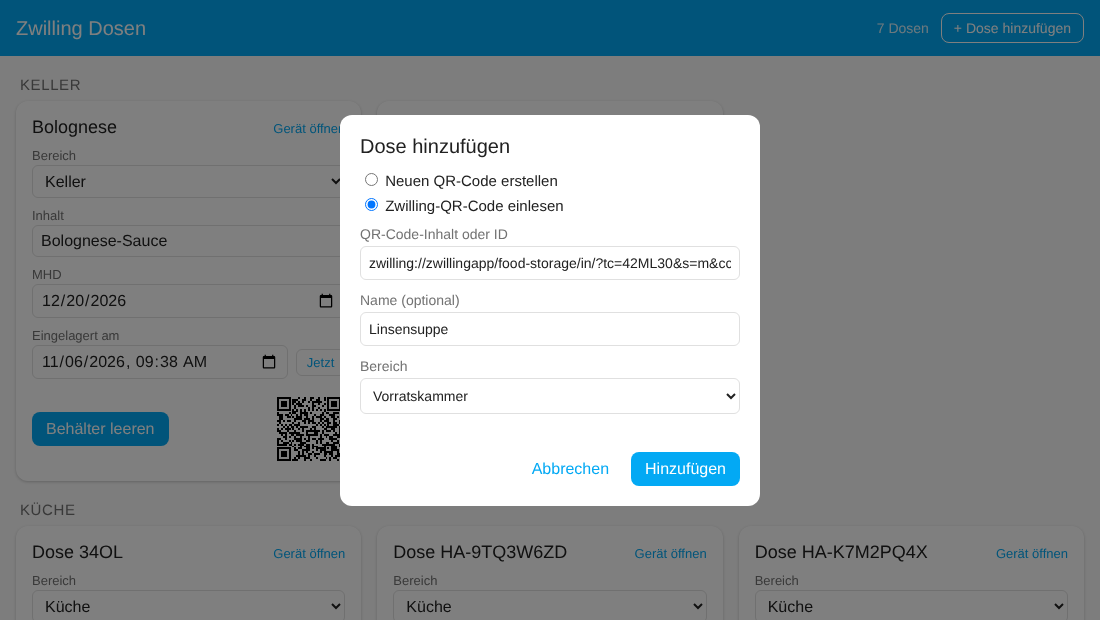
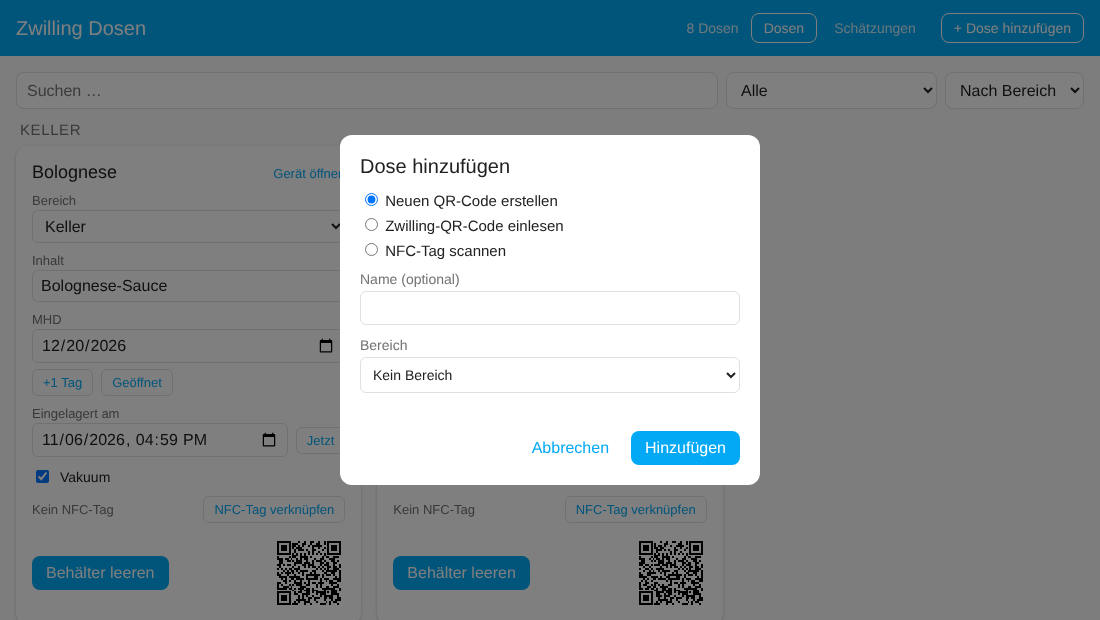
README: neue Screenshots (Filter, Befüllen, Schätzungen, NFC), Demo-Seite erweitert
Claude-Session: https://claude.ai/code/session_01Q3qkotbUKKo9rH8nVuWDPZ

diff --git a/docs/demo/index.html b/docs/demo/index.html
@@ -2,7 +2,8 @@
 <!--
   Demo-Seite für die README-Screenshots: lädt das echte Panel mit erfundenen Daten.
   Aufruf: python -m http.server im Repo-Hauptverzeichnis, dann
-  /docs/demo/index.html?lang=en|de&dialog=0|1&width=...
+  /docs/demo/index.html?lang=en|de&width=...
+  &dialog=1|scan|nfc|fill  &view=estimates  &filter=soon  &tip=1
 -->
 <html>
 <head>
@@ -40,6 +41,7 @@ const doses = de ? [
   ["Reis", "pantry", "Basmati", 300, 700],
   ["Gemüsebrühe", "cellar", "Gemüsebrühe selbst gekocht", -2, 30],
   ["Bolognese", "cellar", "Bolognese-Sauce", 40, 96],
+  ["Dose HA-5ZC8N1RB", "kitchen", "", null, null],
 ] : [
   ["Dose HA-K7M2PQ4X", "kitchen", "Tomato soup", 2, 20],
   ["Dose 34OL", "kitchen", "Chicken curry", 1, 52],
@@ -48,6 +50,7 @@ const doses = de ? [
   ["Rice", "pantry", "Basmati", 300, 700],
   ["Vegetable stock", "cellar", "Homemade vegetable stock", -2, 30],
   ["Bolognese", "cellar", "Bolognese sauce", 40, 96],
+  ["Dose HA-5ZC8N1RB", "kitchen", "", null, null],
 ];
 const entities = {}, devices = {}, states = {};
 doses.forEach((d, i) => {
@@ -67,8 +70,29 @@ doses.forEach((d, i) => {
 const hass = {
   entities, devices, states, language: lang, user: { is_admin: true },
   areas: Object.fromEntries(Object.entries(areas).map(([k, v]) => [k, { area_id: k, name: v }])),
-  hassUrl: (p) => p, callService() {}, callApi: async () => ({}), callWS: async () => ({}),
+  hassUrl: (p) => p, callService() {}, callApi: async () => ({}),
+  callWS: async (msg) => {
+    if (msg.type === "zwilling_storage/nfc_tags") return { links: {}, by_device: { demo00: "tag-a", demo01: "tag-b", demo03: "tag-c" } };
+    if (msg.type === "zwilling_storage/contents") return { contents: de
+      ? ["Pizza", "Pizzateig", "Gulasch", "Linsensuppe", "Tomatensuppe", "Hähnchen-Curry"]
+      : ["Pizza", "Pizza dough", "Goulash", "Lentil soup", "Tomato soup", "Chicken curry"] };
+    if (msg.type === "zwilling_storage/estimates") return { mode: "table_ai", entries: ENTRIES };
+    return {};
+  },
 };
+const ENTRIES = de ? [
+  { key: "a", content: "Tomatensuppe", area: "Kühlschrank", vacuum: true, days: 3, tip: "Gut durcherhitzen", source: "table", origin: null },
+  { key: "b", content: "Hähnchen-Curry", area: "Kühlschrank", vacuum: true, days: 4, tip: "Innerhalb von 2 Stunden abkühlen", source: "table", origin: "table" },
+  { key: "c", content: "Gulasch", area: "Gefrierschrank", vacuum: true, days: 180, tip: "Portionsweise einfrieren", source: "learned", origin: "ai" },
+  { key: "d", content: "Selbstgebackenes Brot", area: "Vorratskammer", vacuum: false, days: 4, tip: "In Leinen aufbewahren", source: "ai", origin: null },
+  { key: "e", content: "Basmati", area: "Vorratskammer", vacuum: true, days: 730, tip: "", source: "table", origin: null },
+] : [
+  { key: "a", content: "Tomato soup", area: "Fridge", vacuum: true, days: 3, tip: "Heat through thoroughly", source: "table", origin: null },
+  { key: "b", content: "Chicken curry", area: "Fridge", vacuum: true, days: 4, tip: "Cool within 2 hours", source: "table", origin: "table" },
+  { key: "c", content: "Goulash", area: "Freezer", vacuum: true, days: 180, tip: "Freeze in portions", source: "learned", origin: "ai" },
+  { key: "d", content: "Homemade bread", area: "Pantry", vacuum: false, days: 4, tip: "Store in linen", source: "ai", origin: null },
+  { key: "e", content: "Basmati", area: "Pantry", vacuum: true, days: 730, tip: "", source: "table", origin: null },
+];
 
 const width = Number(q.get("width") || 1100);
 document.body.style.width = width + "px";
@@ -76,6 +100,24 @@ const el = document.createElement("zwilling-storage-panel");
 document.body.appendChild(el);
 el.hass = hass;
 if (q.get("dialog") === "1") el.openAddDialog();
+if (q.get("dialog") === "nfc") {
+  el.openAddDialog();
+  const r = el.shadowRoot.querySelector('input[name="mode"][value="nfc"]');
+  r.checked = true;
+  r.dispatchEvent(new Event("change"));
+  el.shadowRoot.querySelector('[data-f="name"]').value = de ? "Gulasch" : "Goulash";
+}
+if (q.get("dialog") === "fill") {
+  el.openFillDialog("demo07");
+  const f = (n) => el.shadowRoot.querySelector(`form.fillform [data-f="${n}"]`);
+  f("content").value = de ? "Pizza" : "Pizza";
+}
+if (q.get("view") === "estimates") el.setView("estimates");
+if (q.get("filter")) { el._opts.filter = q.get("filter"); el._update(); }
+if (q.get("tip") === "1") {
+  const card = el._cards.get("demo02");
+  card._setTip(de ? "Geschätzt: ca. 3 Tage haltbar (Tabelle). Gut durcherhitzen" : "Estimated: about 3 days shelf life (table). Heat through thoroughly");
+}
 if (q.get("dialog") === "scan") {
   // Wie nach einem Scan über den Kurzbefehl: Dialog mit vorbelegtem Zwilling-Code
   el.openAddDialog("zwilling://zwillingapp/food-storage/in/?tc=42ML30&s=m&cc=6KP2");

diff --git a/custom_components/zwilling_storage/frontend/zwilling-storage-panel.js b/custom_components/zwilling_storage/frontend/zwilling-storage-panel.js
@@ -451,7 +451,8 @@ const STYLE = `
   .dialog .check { flex-direction: row; align-items: center; gap: 8px; color: var(--primary-text-color); }
   .dialog .check[hidden] { display: none; }
   .actions button.fill { display: none; }
-  .actions button.fill.visible { display: inline-block; background: var(--primary-color); color: var(--text-primary-color, #fff); border-color: transparent; }
+  .actions button.fill.visible { display: inline-block; font: inherit; padding: 7px 14px; border-radius: 8px; cursor: pointer;
+    background: none; color: var(--primary-color); border: 1px solid var(--primary-color); }
   .dialog .nfcstatus { font-size: 14px; color: var(--secondary-text-color); }
   .dialog .nfcstatus[hidden] { display: none; }
   header .tabs { display: none; gap: 4px; }

diff --git a/README.de.md b/README.de.md
@@ -77,7 +77,14 @@ Sobald mindestens eine Dose angelegt ist, erscheint in der Seitenleiste der Eint
 - Das Häkchen **Vakuum** schaltet die Vakuum-Eigenschaft der Dose um.
 - Ist die [Schätzung](#mhd-schätzen-eingebaute-tabelle-und-optional-ki) aktiviert, erscheint unter dem Datum der Button **MHD schätzen**, sobald ein Inhalt eingetragen und noch kein MHD gesetzt ist.
 - **+ Dose hinzufügen** (oben rechts) legt eine Dose an: entweder *Neuen QR-Code erstellen* oder *Zwilling-QR-Code einlesen*, mit optionalem Namen und Bereich. Es ist derselbe Ablauf wie unter Einstellungen → Geräte & Dienste.
+- Unter dem Datum: **+1 Tag** verschiebt das MHD um einen Tag, **Geöffnet** kürzt es auf die in den Einstellungen gesetzte Zahl Tage (Standard 3). Ohne Datum wird eines gesetzt.
+- **Suche, Filter und Sortierung** über den Karten: Suche in Name, Inhalt und Bereich; Filter nach *läuft bald ab*, *abgelaufen*, *befüllt* oder *leer*; Sortierung nach Bereich, MHD (frühestes zuerst) oder Name. Deine Auswahl wird im Browser gemerkt.
+- Eine leere Dose zeigt **Befüllen**, einen schnellen Dialog für Inhalt, Vakuum und MHD (siehe [unten](#dose-schnell-befüllen)).
+- Administratoren sehen außerdem den Reiter **Schätzungen** (siehe [unten](#gemerkte-schätzungen-verwalten)).
 - Neue Dosen, geänderte Werte und geänderte Bereiche erscheinen sofort, ohne dass du etwas neu laden musst.
+
+<p align="center"><img src="docs/images/dashboard-soon-de.png" width="720" alt="Filter: läuft bald ab"></p>
+
 
 Das Panel ist für alle Nutzer sichtbar, aber nur **Administratoren** können Dosen hinzufügen und Bereiche ändern (dieselbe Einschränkung wie in den Einstellungen). Andere Nutzer sehen den Bereich als Text. Es ist kein klassisches Lovelace-Dashboard und lässt sich nicht mit dem Karten-Editor bearbeiten. Dafür aktualisiert es sich selbst.
 
@@ -152,11 +159,15 @@ Das Ergebnis enthält `best_before`, `days`, `tip` (ein kurzer Lagertipp), `sour
 
 ### Dose schnell befüllen
 
+<p align="center"><img src="docs/images/fill-dialog-de.png" width="560" alt="Dialog Dose befüllen"></p>
+
 Eine leere Dose zeigt den Button **Befüllen**. Er öffnet einen kleinen Dialog: **Inhalt** (mit Vorschlägen aus früheren Eingaben, neueste zuerst, danach deine gemerkten Schätzungen), **Vakuum**, **Befüllt am** (vorbelegt mit jetzt), optional ein **MHD** und **MHD automatisch schätzen** (nur wenn die Schätzung aktiv und das MHD leer ist). **Speichern** setzt alles und schätzt das MHD.
 
 Der Dialog öffnet sich auch von selbst nach einem Scan: wenn der Kurzbefehl `app_url` öffnet oder du die NFC-Benachrichtigung antippst und die Dose leer ist. Hat die Dose schon einen Inhalt, wird sie nur hervorgehoben. Das funktioniert für alle Nutzer, nicht nur für Administratoren.
 
 ### Gemerkte Schätzungen verwalten
+
+<p align="center"><img src="docs/images/estimates-de.png" width="720" alt="Reiter Schätzungen"></p>
 
 Administratoren sehen im Dashboard einen zweiten Reiter, **Schätzungen**. Er listet alles, was für eine Kombination aus Inhalt, Bereich und Vakuum gemerkt ist, samt Quelle (Tabelle, KI oder von dir korrigiert mit ursprünglicher Quelle). Dort kannst du
 
@@ -194,6 +205,8 @@ Unter Einstellungen → Geräte & Dienste → **Zwilling Food Storage** → **Ko
 Der Kalender muss Termine anlegen **und** löschen können. Reine Lese-Kalender (z. B. ein iCal-Link) gehen nicht; die Integration *Lokaler Kalender* ist eine gute Wahl, wenn du keinen anderen hast.
 
 ## NFC-Tags
+
+<p align="center"><img src="docs/images/add-dialog-nfc-de.png" width="560" alt="Dose hinzufügen: NFC-Tag scannen"></p>
 
 Statt einen QR-Code zu drucken, kannst du einen NFC-Tag auf die Dose kleben. Dafür werden die **Tags** von Home Assistant genutzt: Jeder Scan löst ein `tag_scanned`-Ereignis aus, und die Integration merkt sich, welcher Tag zu welcher Dose gehört. Andere Tags im Haus werden ignoriert.
 

diff --git a/README.md b/README.md
@@ -80,7 +80,11 @@ As soon as at least one container exists, a sidebar entry **Zwilling containers*
 - Under the date: **+1 day** moves the best-before date by a day, **Opened** shortens it to the number of days you set in the settings (default 3). Without a date, one is set.
 - **Search, filter and sort** above the cards: search in name, contents and area; filter by *expiring soon*, *expired*, *filled* or *empty*; sort by area, best-before date (earliest first) or name. Your choice is remembered in the browser.
 - Administrators also get the **Estimates** tab (see [below](#managing-remembered-estimates)).
+- An empty container shows **Fill**, a quick dialog for contents, vacuum and best-before date (see [below](#filling-a-container-quickly)).
 - New containers, changed values and changed areas show up immediately, no reload needed.
+
+<p align="center"><img src="docs/images/dashboard-soon-en.png" width="720" alt="Filter: expiring soon"></p>
+
 
 The panel is visible to all users, but only **administrators** can add containers and change areas (the same restriction as in the settings). Other users see the area as text. It is not a classic Lovelace dashboard and cannot be edited with the card editor. In return it updates itself.
 
@@ -155,11 +159,15 @@ The result contains `best_before`, `days`, `tip` (a short storage tip), `source`
 
 ### Filling a container quickly
 
+<p align="center"><img src="docs/images/fill-dialog-en.png" width="560" alt="Fill container dialog"></p>
+
 An empty container shows a **Fill** button. It opens a small dialog: **contents** (with suggestions from what you entered before, newest first, then your remembered estimates), **vacuum**, **filled on** (preset to now), optionally a **best-before date**, and **Estimate best before automatically** (only if estimating is on and the date is empty). **Save** sets everything and estimates the date.
 
 The dialog also opens by itself after a scan: when the Shortcut opens `app_url` or you tap the NFC notification and the container is empty. For a container that already has contents the dashboard only highlights it. This works for all users, not only administrators.
 
 ### Managing remembered estimates
+
+<p align="center"><img src="docs/images/estimates-en.png" width="720" alt="Estimates tab"></p>
 
 Administrators get a second tab, **Estimates**, in the dashboard. It lists everything that is remembered for a combination of contents, area and vacuum, with its source (table, AI, or corrected by you with the original source). There you can
 
@@ -197,6 +205,8 @@ Under Settings → Devices & services → **Zwilling Food Storage** → **Config
 The calendar must be able to create **and** delete events. Read-only calendars (for example an iCal link) cannot be used; the *Local Calendar* integration is a good choice if you have no other one.
 
 ## NFC tags
+
+<p align="center"><img src="docs/images/add-dialog-nfc-en.png" width="560" alt="Add container: scan NFC tag"></p>
 
 Instead of printing a QR code you can stick an NFC tag on the container. This uses Home Assistant's own **tags**: every scan fires a `tag_scanned` event, and the integration remembers which tag belongs to which container. Other tags in your home are ignored.
 
